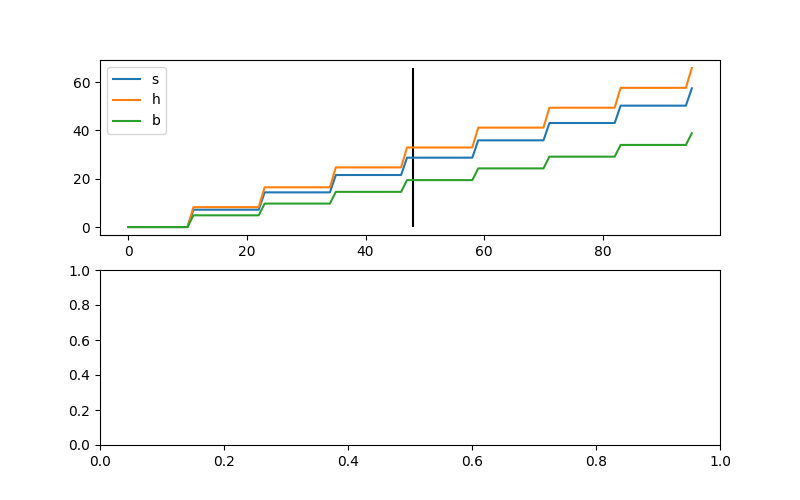
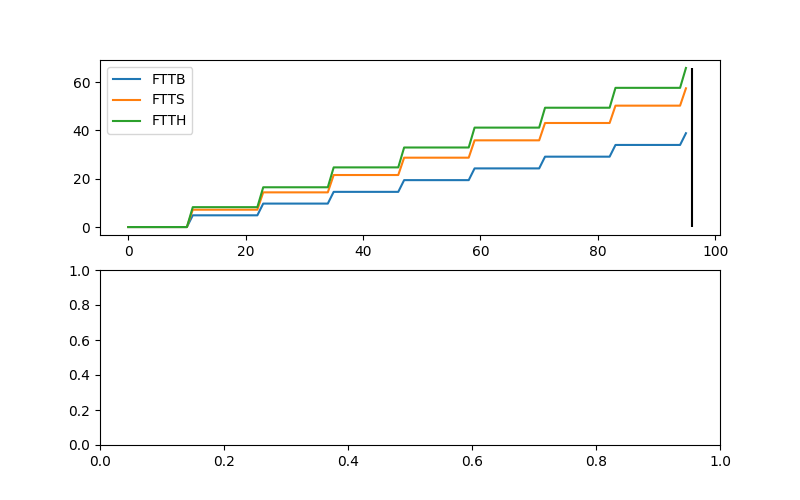
continue implement rez and other factors

diff --git a/flaskinterface/templates/main_slim.html b/flaskinterface/templates/main_slim.html
@@ -10,7 +10,6 @@ function submitForm(){
 
 <div class="container-fluid">
   <form id="form_id" action="{{ url_for('value_brain') }}" method="post">
-    <input type="text" value="{{ sliders['rez'] }}" name="rez" onchange="submitForm(this.name)" size="8">
     <div class="row">
       <div class="col-md-6">
         {% for c in sliders['cats']%}
@@ -22,7 +21,7 @@ function submitForm(){
           <label title="{% if slider_dic['desc'] %}{{ slider_dic['desc'] }}{% endif %}"><b>{{ slider_dic['name'] }}</b></label>
         </div>
         <div class="col-md-6 col-sm-3">
-          <input type="text" value="{{ slider_dic['value'] }}" name="{{ slider_dic['name']+'f' }}" onchange="submitForm(this.name)" size="8">
+          <input type="text" value="{{ slider_dic['value'] }}" name="{{ slider_dic['name'] }}" onchange="submitForm(this.name)" size="8">
         </div>
         {% endif %}
         {% endfor %}
@@ -39,7 +38,7 @@ function submitForm(){
             <label title="{% if slider_dic['desc'] %}{{ slider_dic['desc'] }}{% endif %}"><b>{{ slider_dic['name'] }}</b></label>
           </div>
           <div class="col-md-6 col-sm-3">
-            <input type="text" value="{{ slider_dic['value'] }}" name="{{ slider_dic['name']+'f' }}" onchange="submitForm(this.name)" size="8">
+            <input type="text" value="{{ slider_dic['value'] }}" name="{{ slider_dic['name'] }}" onchange="submitForm(this.name)" size="8">
             <span> = {{ slider_dic['value']//12 }} Jahre {{ slider_dic['value']%12 }} Monate</span>
           </div>
           {% endif %}

diff --git a/flaskinterface/tva_main_slim.py b/flaskinterface/tva_main_slim.py
@@ -3,7 +3,6 @@
 
 from flask import Flask, request, render_template
 import pickle
-from tva_project.models.model_helpers import *
 from tva_project.models.model import Model
 
 
@@ -45,15 +44,23 @@ def dummy_db_put(req_form):
     return new_dic
 
 
+def blacklist():
+    return ['rez']
+
+
 def dummy_db_put_single(req_form):
     db_dic = dummy_db_get()
     new_dic = []
     for f in db_dic:
         f_name = f['name']
-        try:
-            f['value'] = float(eval(req_form[f_name+'f']))
-        except SyntaxError as err:
-            f['value'] = float(req_form[f_name+'f'])
+        if f_name not in blacklist():
+            try:
+                f['value'] = float(eval(req_form[f_name]))
+            except SyntaxError as err:
+                f['value'] = float(req_form[f_name])
+        else:
+            print("blacklist invoked")
+            f['value'] = req_form[f_name]
         new_dic.append(f)
     with open('dummy.txt', 'wb') as f:
         pickle.dump(new_dic, f)
@@ -82,15 +89,15 @@ def value_brain():
         sliders = dummy_db_put_single(request.form)
         Model(sliders).plot()
         cats = ["Input", "FTTH", "FTTSB", "FTTB", "FTTS"]
-        print(request.form)
-        s_dic = {'factors': sliders, 'cats': cats, 'rez': request.form['rez']}
+        # print(request.form)
+        s_dic = {'factors': sliders, 'cats': cats}
         return render_template('main_slim.html',
                                sliders=s_dic)
     else:
         sliders = initial_put()
         Model(sliders).plot()
         cats = ["Input", "FTTH", "FTTSB", "FTTB", "FTTS"]
-        s_dic = {'factors': sliders, 'cats': cats, 'rez': 'REZ'}
+        s_dic = {'factors': sliders, 'cats': cats}
         return render_template('main_slim.html',
                                sliders=s_dic)
 
@@ -98,6 +105,8 @@ def value_brain():
 def load_defaults():
     return list([{'name': 'max_horizon', 'cat': 'plot', 'value': 8*12},
                  {'name': 'slider', 'cat': 'plot', 'value': 12},
+                 # Input
+                 {'name': 'rez', 'cat': 'Input', 'value': "2342-234"},
                  {'name': 'anzahl_ne', 'cat': 'Input', 'value': 10},
                  # FTTH
                  {'name': 'fan_wartung', 'cat': 'FTTH Betrieb', 'value': 521.7,

diff --git a/models/model.py b/models/model.py
@@ -3,7 +3,7 @@
 
 import numpy as np
 from matplotlib import pyplot as plt
-from tva_project.models.model_helpers import *
+from tva_project.models.model_helpers import make_array, monatsweise_zu_total
 
 
 class Model(object):
@@ -50,14 +50,14 @@ class Model(object):
     """
 
     def h_ob(s):
-        return make_array(12, s.max_horizon) * (s.fan_wartung + s.fan_strom\
-            + s.fan_proacM + s.fan_logistik + s.fan_assurance) / s.fan_eff_bel\
-            * s.anzahl_ne
+        return (s.fan_wartung + s.fan_strom
+                + s.fan_proacM + s.fan_logistik + s.fan_assurance)\
+                / s.fan_eff_bel * s.anzahl_ne * make_array(12, s.max_horizon)
 
     def mcan_ob(s):
-        return make_array(12, s.max_horizon) * (s.mcan_wartung + s.mcan_proacM\
-            + s.mcan_logistik + s.mcan_assurance_fixed) / s.mcan_eff_bel\
-            * s.anzahl_ne
+        return (s.mcan_wartung + s.mcan_proacM
+                + s.mcan_logistik + s.mcan_assurance_fixed) / s.mcan_eff_bel\
+                * s.anzahl_ne * make_array(12, s.max_horizon)
 
     def mcan_ass(s, t):
         if t == 'b':
@@ -77,11 +77,16 @@ class Model(object):
     Plot
     """
 
+# TODO: do factor class :-(
+    def update_dependend_facs(s):
+        if s.max_horizon < s.slider:
+            s.slider = s.max_horizon
+
     def sum_mw(s):
         h_mw = s.h_ob()
         b_mw = s.mcan_ob() + s.agg_ob() + s.mcan_ass('b')
         s_mw = s.mcan_ob() + s.agg_ob() + s.mcan_ass('s')
-        return {'h': h_mw, 'b': b_mw, 's': s_mw}
+        return {'FTTH': h_mw, 'FTTB': b_mw, 'FTTS': s_mw}
 
     def tot(s):
         mws = s.sum_mw()
@@ -93,11 +98,12 @@ class Model(object):
         """
         Create main Plot
         """
+        s.update_dependend_facs()
         x = np.arange(s.max_horizon)
-        fig, (ax1, ax2) = plt.subplots(2, 1, figsize=(8,5))
+        fig, (ax1, ax2) = plt.subplots(2, 1, figsize=(8, 5))
         tot_d = s.tot()
         ymin, ymax = 0, 0
-        for k,v in zip(tot_d.keys(), tot_d.values()):
+        for k, v in zip(tot_d.keys(), tot_d.values()):
             if v.min() < ymin:
                 ymin = v.min()
             if v.max() > ymax:
